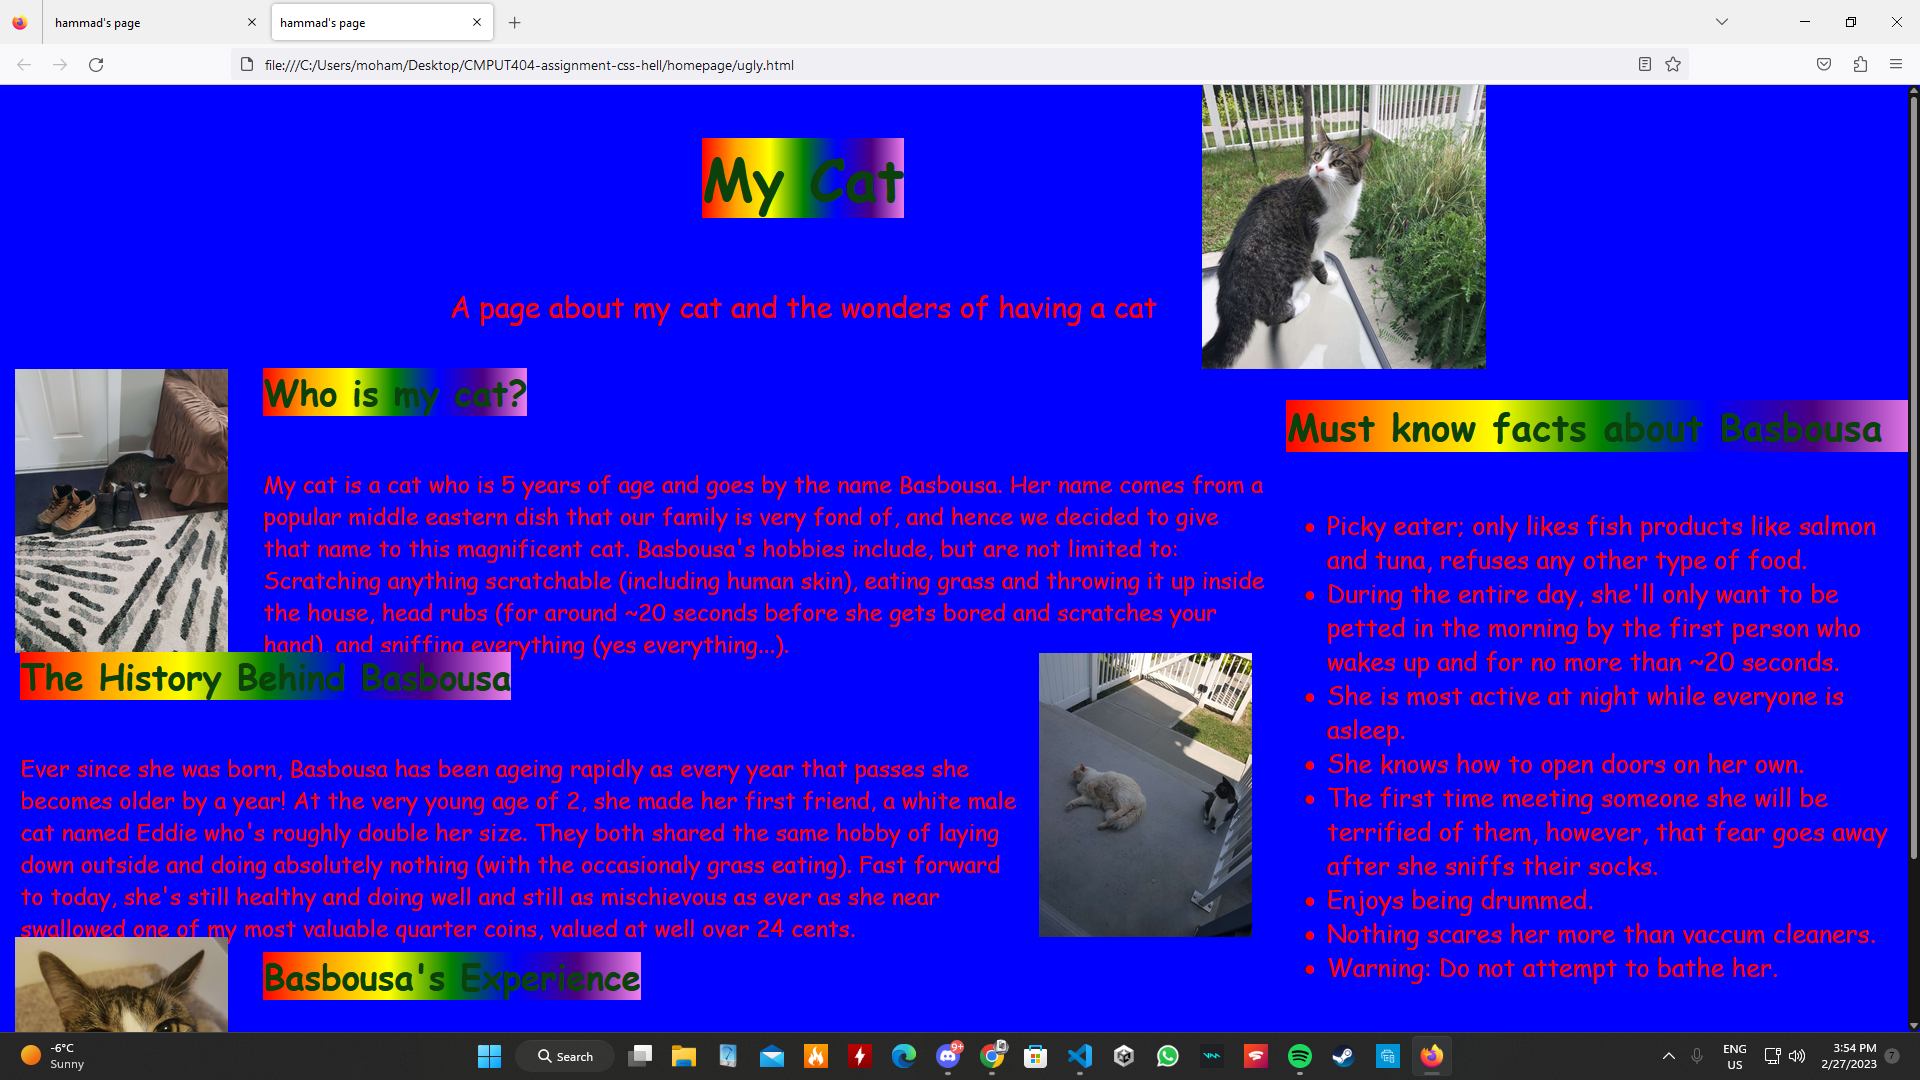
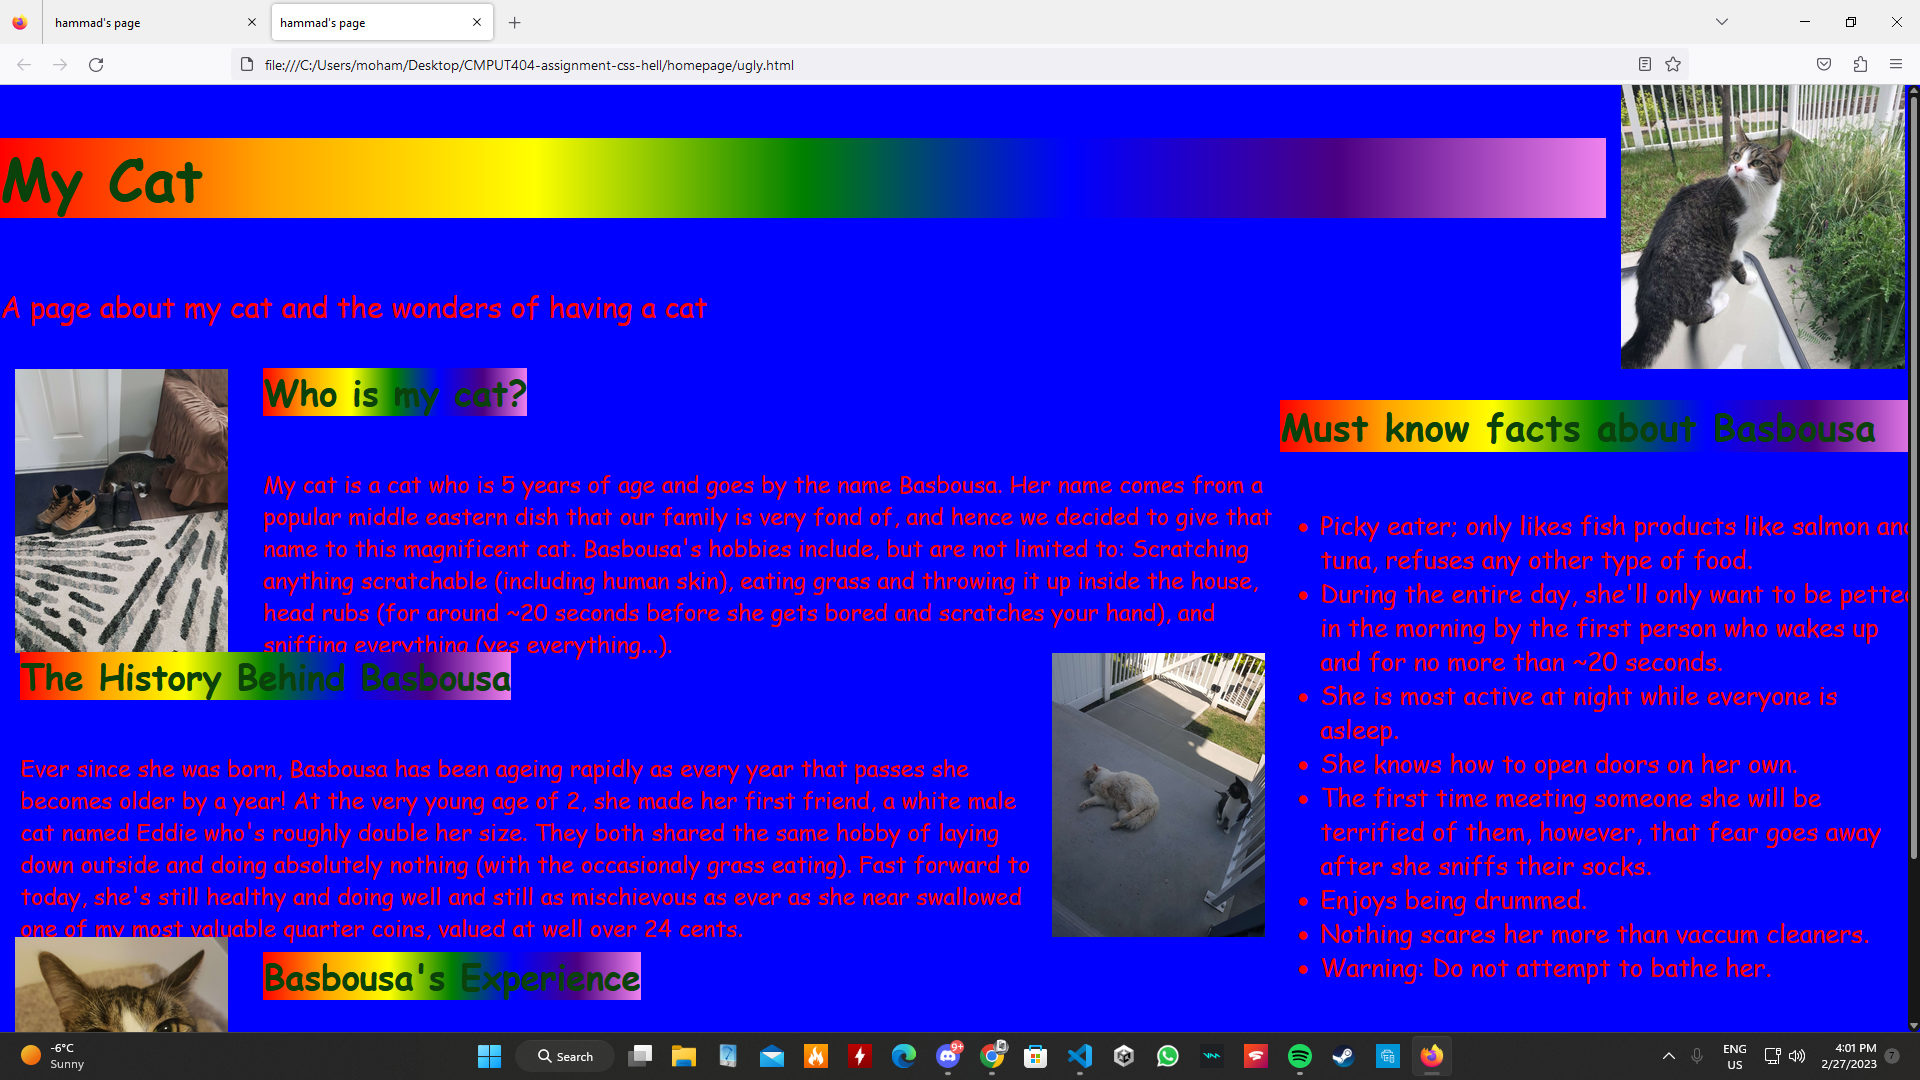
Make ugly page uglier

Changed region(s): [[0.0, 0.4583, 1.0, 0.9167], [0.0, 0.0611, 1.0, 0.4278], [0.0, 0.275, 0.5938, 0.3056]]

diff --git a/badstyle.css b/badstyle.css
@@ -9,10 +9,6 @@ body {
     font-size: 1.3vw;
 }
 
-.content {
-    gap: 1%;
-}
-
 div {
     display: flex;
     width: 100%;
@@ -37,10 +33,9 @@ div img {
 }
 
 .herotext {
-    width: 40%;
+    width: 100%;
     flex-direction: column;
     justify-content: center;
-    align-items: center;
     font-size: 1.5vw;
 }
 
